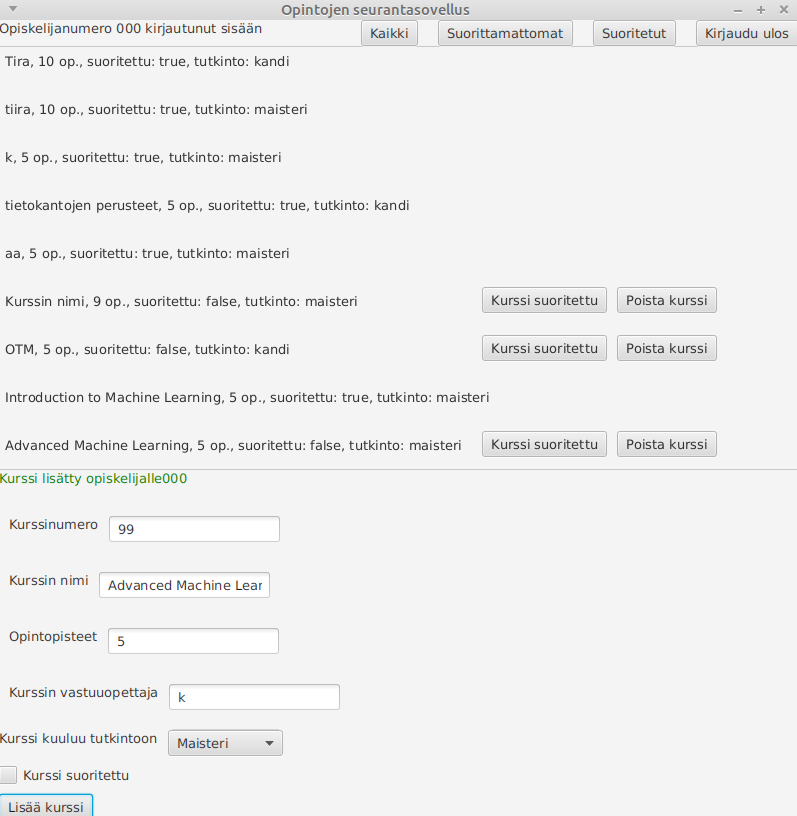
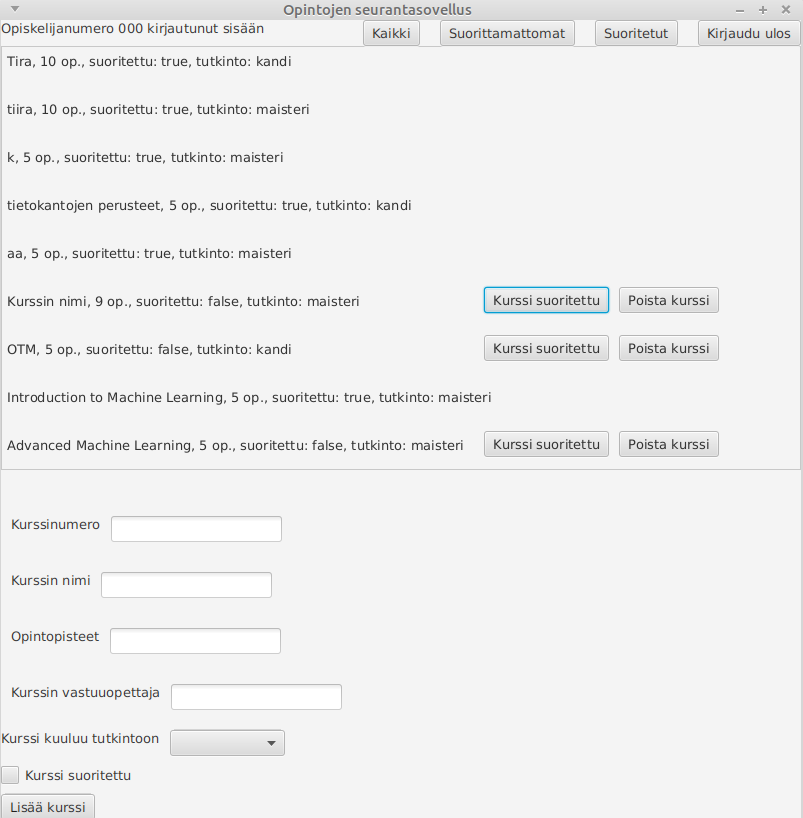
päivitetyt kuvat

diff --git a/OpintojenSeurantasovellus/src/main/java/ui/UI.java b/OpintojenSeurantasovellus/src/main/java/ui/UI.java
@@ -338,6 +338,10 @@ public class UI extends Application {
                 createCourseMessage.setText("Kurssi lisätty opiskelijalle" + logic.getLoggedInStudent());
                 createCourseMessage.setTextFill(Color.GREEN);
                 redrawCourseList(logic.getLoggedInStudent());
+                courseIdInput.clear();
+                courseNameInput.clear();
+                courseCreditInput.clear();
+                courseProfInput.clear();
                 primary.setScene(listScene);
             } else {
                 createCourseMessage.setText("Tarkista, että kaikki kentät on täytetty!");
